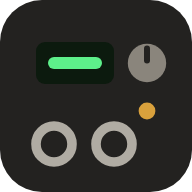
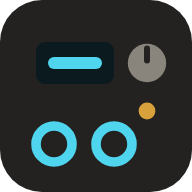
Show the fork's version in the deck, and make the mark ours
Two things the owner asked for: the version where it can be read at a
glance, and an icon that says PM rather than upstream.

The version sits left of FX LOOP, quiet in muted mono, with the commit
in its tooltip — the same string a support log leads with, so a screen
shot and a log can be matched up. It reads from pm.* tags now: upstream's
v* tags are on a lineage we left behind, so counting commits from them
would be counting someone else's.

The mark takes the app's accent teal (--accent #4fd6ee) on the LCD and
the footswitch rings, which are the parts that read at 16px. All seven
PNGs regenerated from the same art, so the fallbacks match the SVG.

Changed region(s): [[0.4688, 0.625, 0.7188, 0.875], [0.1562, 0.625, 0.4062, 0.875], [0.25, 0.2812, 0.5312, 0.375]]

diff --git a/vite.config.ts b/vite.config.ts
@@ -9,16 +9,18 @@ import { parseGitDescribe, type AppVersion } from './src/core/appVersion.ts'
  * The version printed under the credits, as `__APP_VERSION__`: the latest
  * release tag and the commits since it (src/core/appVersion.ts).
  *
- * `--match 'v[0-9]*'` counts from release tags only, so a stray tag of any
- * other shape can't reset the number. With no git, or no tag reachable — a
- * shallow CI clone fetched without tags is the likely one — this is null and
- * the page shows no version at all, which beats a confidently wrong one.
+ * `--match 'pm.[0-9]*'` counts from THIS FORK's release tags: upstream's own
+ * `v*` tags sit on a lineage we left behind, so describing from them would
+ * either fail or count someone else's commits. With no git, or no `pm.*` tag
+ * reachable, this is null and the page shows no version at all, which beats a
+ * confidently wrong one. A tag must be pushed for CI to see it (24 Oct: the
+ * live site showed nothing because every pm/v tag was local-only).
  */
 function appVersion(): AppVersion | null {
   try {
     const described = execFileSync(
       'git',
-      ['describe', '--tags', '--long', '--match', 'v[0-9]*'],
+      ['describe', '--tags', '--long', '--match', 'pm.[0-9]*'],
       { cwd: __dirname, encoding: 'utf8', stdio: ['ignore', 'pipe', 'ignore'] },
     )
     return parseGitDescribe(described)

diff --git a/src/components/board/board.css b/src/components/board/board.css
@@ -1641,6 +1641,17 @@
   align-items: center;
   margin-left: auto;
 }
+/* The fork's version, left of FX LOOP: present but quiet, and it must never
+   compete with the buttons beside it. */
+.board-view .deck-version {
+  font-family: var(--font-jetbrains-mono), monospace;
+  font-size: 10px;
+  letter-spacing: 0.06em;
+  color: var(--text-muted);
+  white-space: nowrap;
+  padding-right: 2px;
+  user-select: text;
+}
 .board-view .deck-btn {
   display: inline-flex;
   align-items: center;
@@ -2498,6 +2509,11 @@
   }
   .board-view .deck-actions .deck-btn {
     flex: 1 0 auto;
+  }
+  .board-view .deck-actions .deck-version {
+    order: 99;
+    flex: 1 0 100%;
+    text-align: right;
   }
 
   /* deck popovers: fixed bottom sheets clamped to the viewport */

diff --git a/src/components/board/SwitcherUnit.tsx b/src/components/board/SwitcherUnit.tsx
@@ -284,6 +284,11 @@ export function SwitcherUnit({
       <AudioMeters />
 
       <div className="deck-actions">
+        {__APP_VERSION__ && (
+          <span className="deck-version" title={`GP200 Studio PM — commit ${__APP_VERSION__.commit}`}>
+            {__APP_VERSION__.label}
+          </span>
+        )}
         <button type="button" className="deck-btn" onClick={onOpenFxLoop}>
           <ActionIcon name="fxloop" />
           <span className="db-label">FX LOOP</span>
